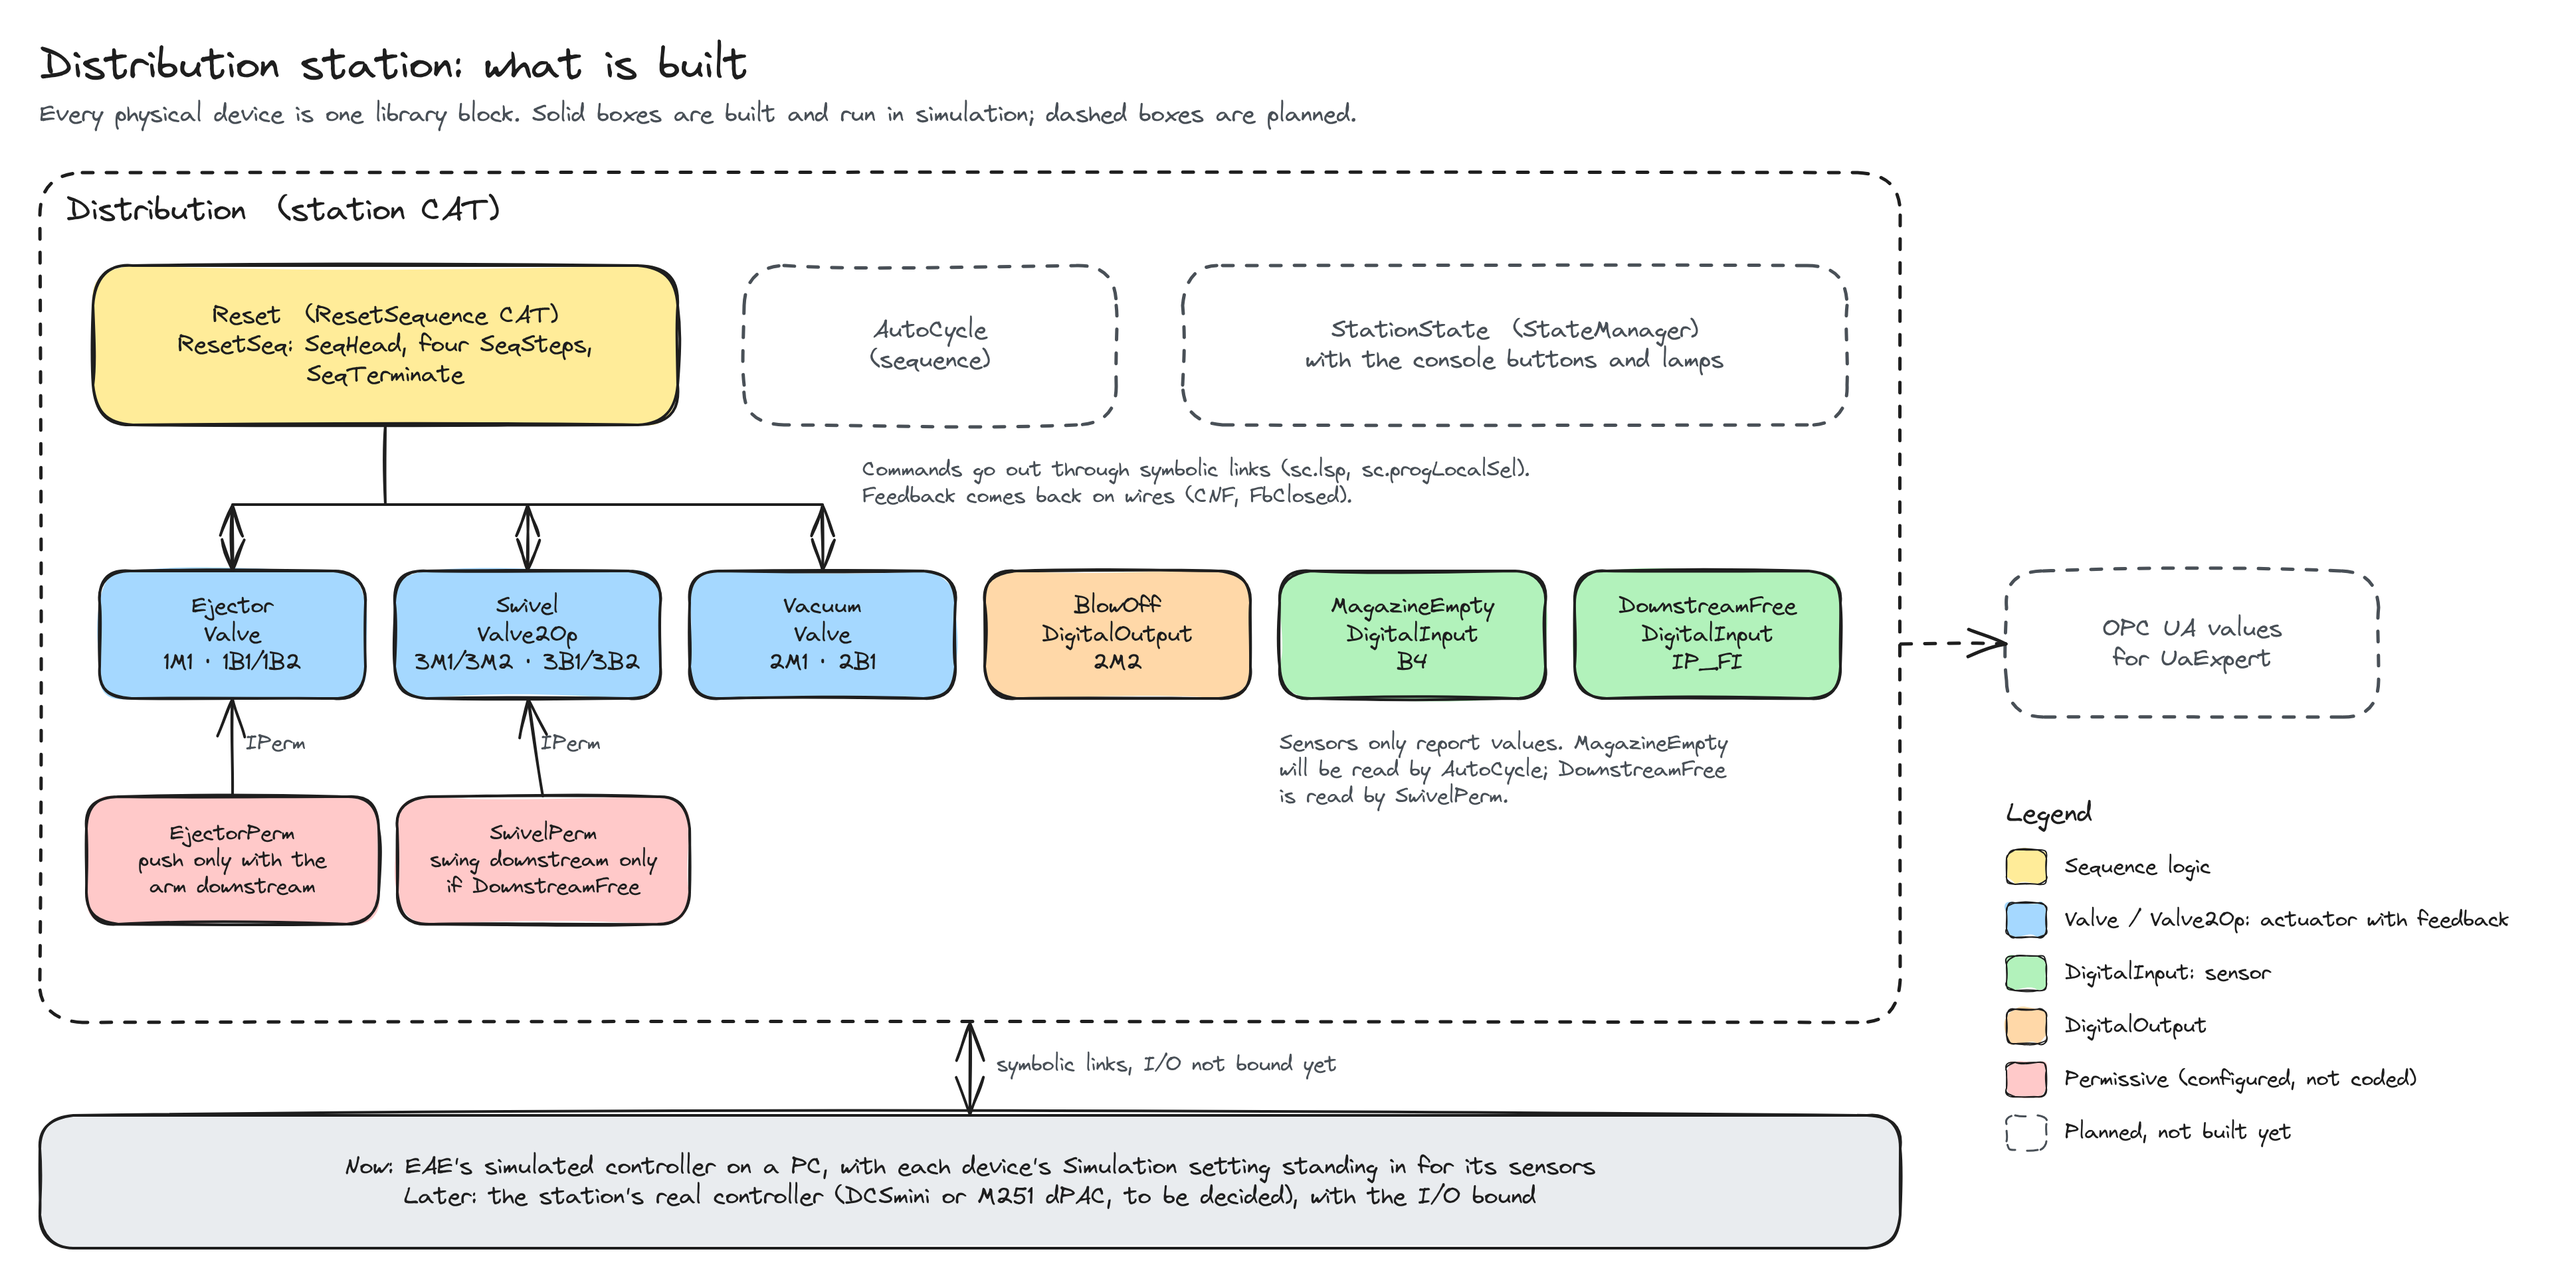
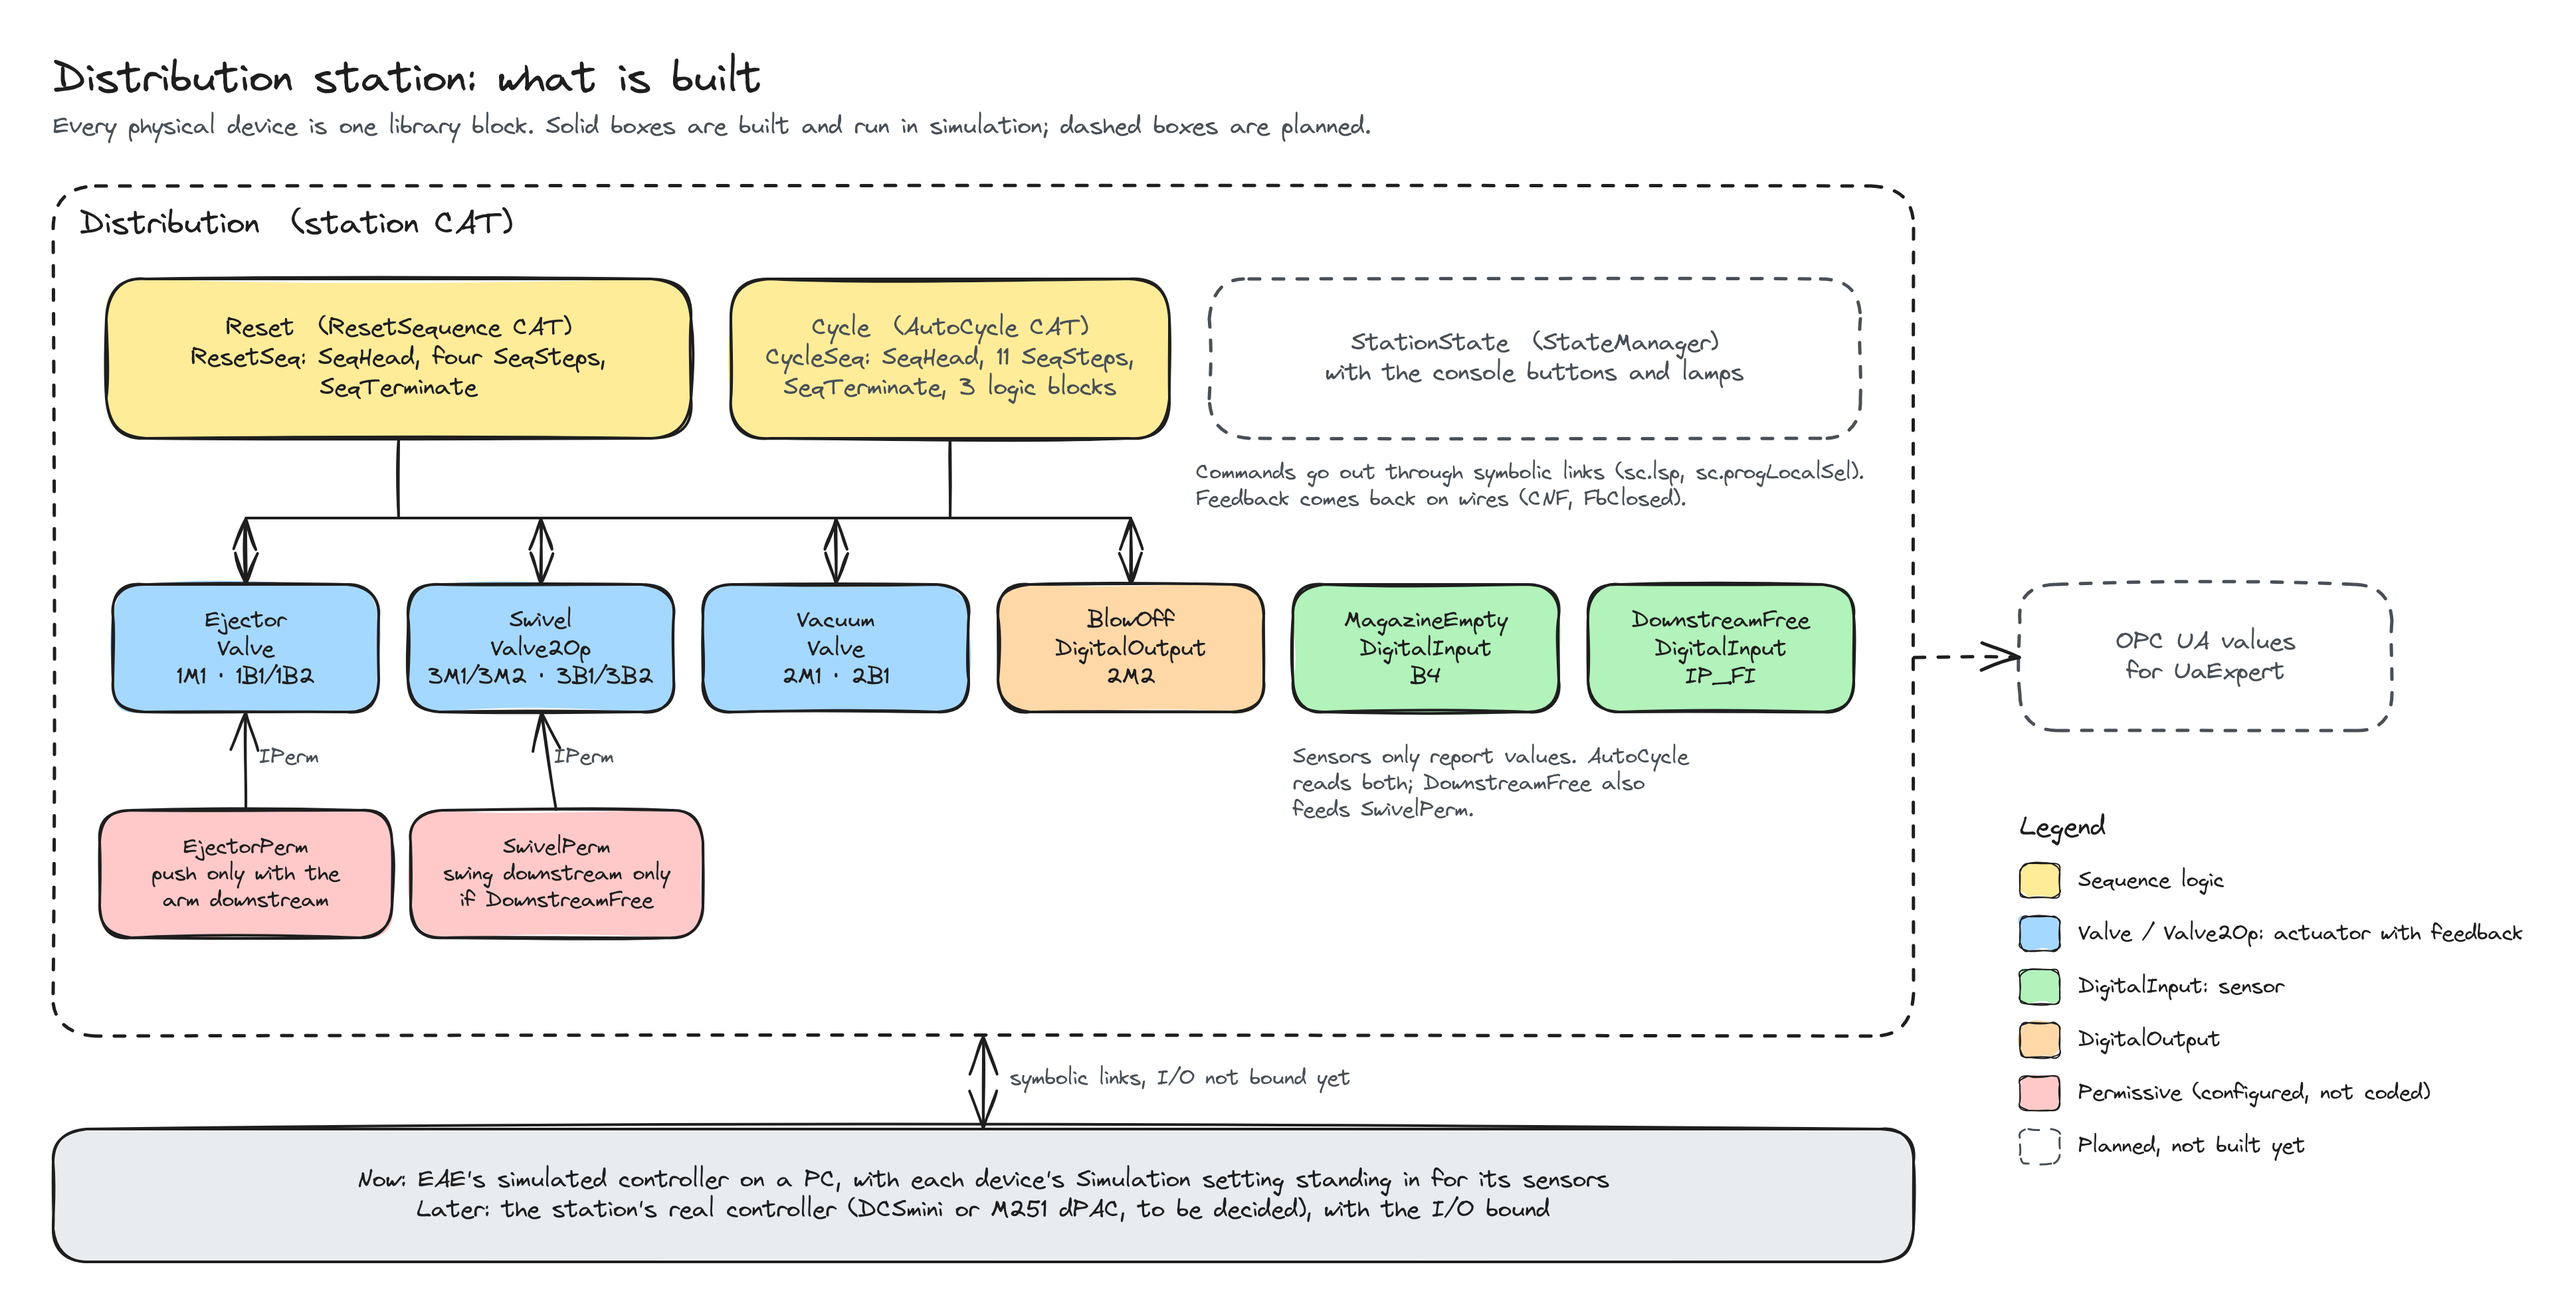
docs for the autocycle sequence

diff --git a/docs/REPORT.md b/docs/REPORT.md
@@ -99,7 +99,25 @@ Each command is a `SYMLINKMULTIVARSRC` block, fired when its step starts, that w
 
 ### Automatic cycle
 
-The automatic cycle, `AutoCycle`, follows the same pattern in its own CAT (Figure 2). After the same take-over step, it waits until Testing is free, swings the arm downstream, checks the magazine, pushes a workpiece out, swings to the magazine and picks the workpiece up. It then retracts the ejector, waits until Testing is free, swings downstream, drops the workpiece off with a blow-off pulse and parks the arm at the magazine. To repeat until the magazine is empty, it adds two library blocks the reset does not use: `seqTransJumpBackCmd`, which marks the step the loop jumps back to, and `SeqTransition`, which gives the loop step a second exit when the magazine is empty.
+The automatic cycle, `AutoCycle`, follows the same pattern in its own CAT (Figure 2). After the same take-over step, it waits until Testing is free, swings the arm downstream, checks the magazine, pushes a workpiece out, swings to the magazine and picks the workpiece up. It then retracts the ejector, waits until Testing is free, swings downstream, drops the workpiece off with a blow-off pulse and parks the arm at the magazine. 
+
+| Step | Command | Done when |
+| --- | --- | --- |
+| AC1 Take over | Switch the Vacuum, the Ejector, the Swivel and BlowOff to Program Local | The Vacuum, the Ejector and BlowOff report Program Local |
+| AC2 Wait for Testing | None, it only waits | Testing is free (`DownstreamFree`) |
+| AC3 Arm downstream | Swivel to Open | The Swivel reports open |
+| AC4 Check magazine | None, it only waits | The magazine is not empty |
+| AC5 Eject | Ejector to Open | The Ejector reports open |
+| AC6 Arm to magazine | Swivel to Close | The Swivel reports closed |
+| AC7 Pick up | Vacuum to Open | The Vacuum reports open |
+| AC8 Ejector back | Ejector to Close | The Ejector reports closed and Testing is still free |
+| AC9 Carry | Swivel to Open | The Swivel reports open |
+| AC10 Drop off | Vacuum to Close and BlowOff on, then BlowOff off when the step ends | The Vacuum reports closed |
+| AC11 Park | Swivel to Close | The Swivel reports closed |
+
+Three small logic blocks sit between the sensors and the steps where a condition combines or inverts signals: an AND of the take-over answers for AC1, a NOT that turns the magazine-empty sensor into "workpieces left" for AC4, and an AND of the ejector's back position and Testing's free signal for AC8. BlowOff has no feedback, so AC10 switches it on as the step starts and off as it ends, which gives the blow-off pulse.
+
+Every step ends on real feedback, the device's confirmed end position or a sensor, never on a timer. A slow or stuck cylinder therefore holds the cycle in the right step while its valve block raises an alarm. An IEC 61499 block reads its inputs only when an event arrives, so each step checks its condition twice: once when its command is confirmed, which catches a device that is already in place, and again whenever the device reports new feedback.
 
 ## Testing
 
@@ -118,8 +136,13 @@ All tests run on EAE's simulated controller, with each device's Simulation setti
 | 5 | **Reset from home.** Switch the three device owners to Program. Open the `ResetSeq` faceplate, switch its Owner to Operator, and press Start. | The three owners change to Program Local, steps whose device is already home pass at once, and Status ends on Completed. | Passed |
 | 6 | **Reset with moves.** Switch the three devices to Operator. With Override on and Override Value True on `DownstreamFree`, open the Swivel, the Ejector and the Vacuum. Switch all three back to Program, then press Start on `ResetSeq`. | The Vacuum closes, the Ejector retracts and the Swivel swings to the magazine, one after the other. Status ends on Completed. | Passed |
 | 7 | **Reset waits for a device on Operator.** Switch the Ejector to Operator and press Start. Then press Stop, switch the Ejector back to Program, and press Start again. | The sequence stays in the take-over step until Stop, and Status reads Stopped. The second Start runs to Completed. | Passed |
+| 8 | **Step through the cycle.** On the `CycleSeq` faceplate, switch Owner to Operator, set Mode to Semi-Auto and press Start. Press SEMI-START each time it appears. | The four devices change to Program Local, each step moves its device in the order of the step table, and Status ends on Completed. | Passed |
+| 9 | **Run the cycle whole.** Set Mode to Auto and press Start. | The cycle runs without stopping and Status ends on Completed. | Passed |
+| 10 | **Wait for Testing.** Set the Override Value of `DownstreamFree` to False and press Start, then set it back to True. | The cycle stays in AC2 until the value is True, then carries on to Completed. | Passed |
+| 11 | **Stop mid-cycle, then reset.** In Semi-Auto, press Stop once AC9 is done, with the arm downstream and the suction on. Then press Start on the `ResetSeq` faceplate. | The Vacuum switches off, the Swivel swings to the magazine and Status ends on Completed, so both sequences can command the same devices. | Passed |
 
-Tests for the automatic cycle will be added once it is built.
+
+In simulation each valve confirms a move the moment it is commanded, so in Auto (test 9) the whole cycle finishes in well under a second and the faceplates show no visible change. Semi-Auto (test 8) shows it step by step.
 
 ## Problems and solutions
 
@@ -131,7 +154,6 @@ Tests for the automatic cycle will be added once it is built.
 
 ## Remaining work
 
-- **Automatic cycle.** Build `AutoCycle` as described under Implementation, test it in simulation, and add its tests to the table.
 - **Station states and console.** Add the library's state manager and wire the console's buttons and lamps to it, so that Start, Stop and Reset run the right sequence. The station also needs to hand the devices back to the operator when it stops; today they stay in Program Local after a sequence ends.
 - **Real I/O.** Bind the device blocks to the controller's I/O channels and test on the station. This waits on the choice of controller: the nxtStudio project runs Distribution on an nxtControl DCSmini, while the EAE version of that project is set up for a Modicon M251 dPAC.
 - **Handover to Testing.** The design reads the IP\_FI optical signal, which works whatever program Testing runs. The nxtStudio project instead joins the two station programs with an adapter, `WORKPIECE_REQUEST`, and none of Distribution's wired inputs there is IP\_FI, so it is not yet known whether IP\_FI is connected in the lab.
